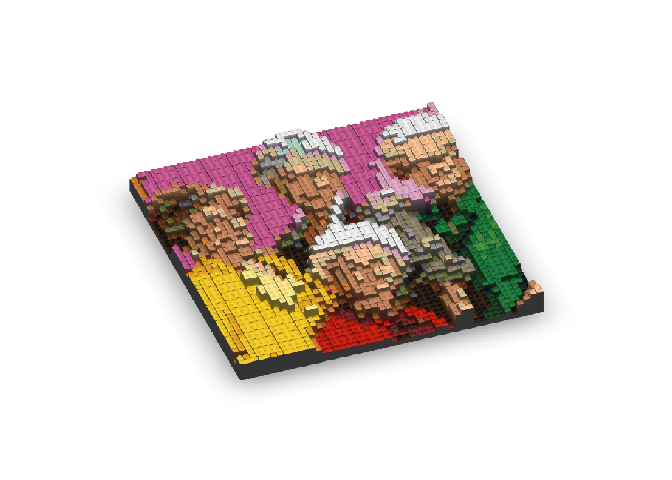
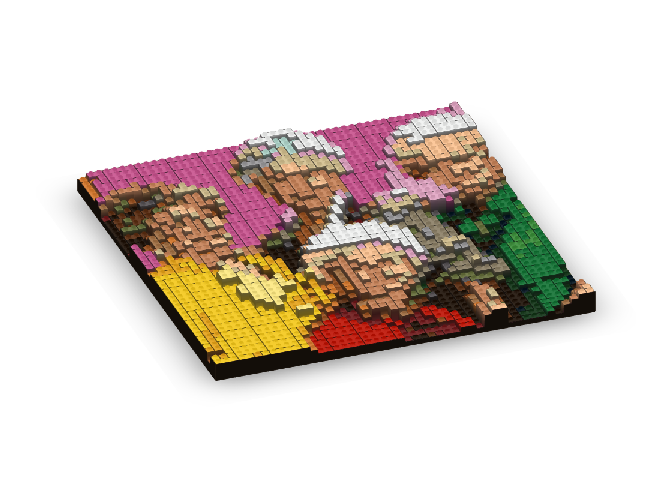
Added a 'brightness' option to scale_image().

Changed region(s): [[0.0938, 0.2188, 0.9062, 0.8125]]

diff --git a/README.md b/README.md
@@ -12,7 +12,7 @@ A full explanation can be found on [this blog post](http://www.ryantimpe.com/201
 
 This process is competed in a few distinct steps:
 
--   `scale_image()` reduces the image to a number of brick "pixels". Providing a single value, such as `48`, crops the image to a square. Inputting a 2-element array, `c(56, 48)`, will output a rectangular image of `c(width, height)`.
+-   `scale_image()` reduces the image to a number of brick "pixels". Providing a single value, such as `48`, crops the image to a square. Inputting a 2-element array, `c(56, 48)`, will output a rectangular image of `c(width, height)`. Use `brightness` to adjust the light of the image. Values greater than 1 will lighten the image, while value less than 1 will darken it.
 
 -   `legoize()` converts every brick-sized pixel in the scaled image to an official LEGO brick color. Those colors are stored in `Colors/Lego_Colors.csv`. By default, the functions look at only currently produced, non-transparent colors. Use `theme = 'bw'`to create a 4-color grayscale mosaic.
 
